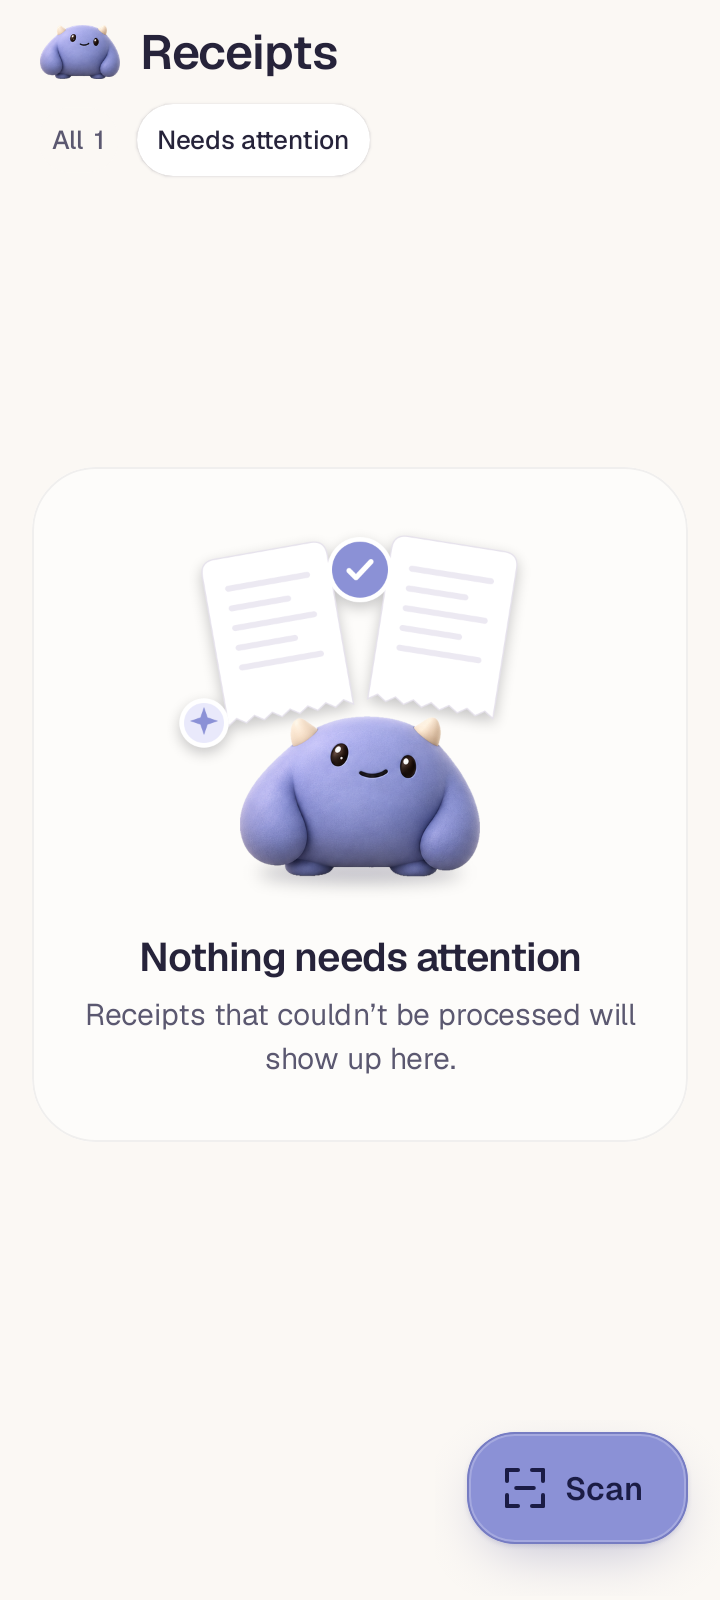
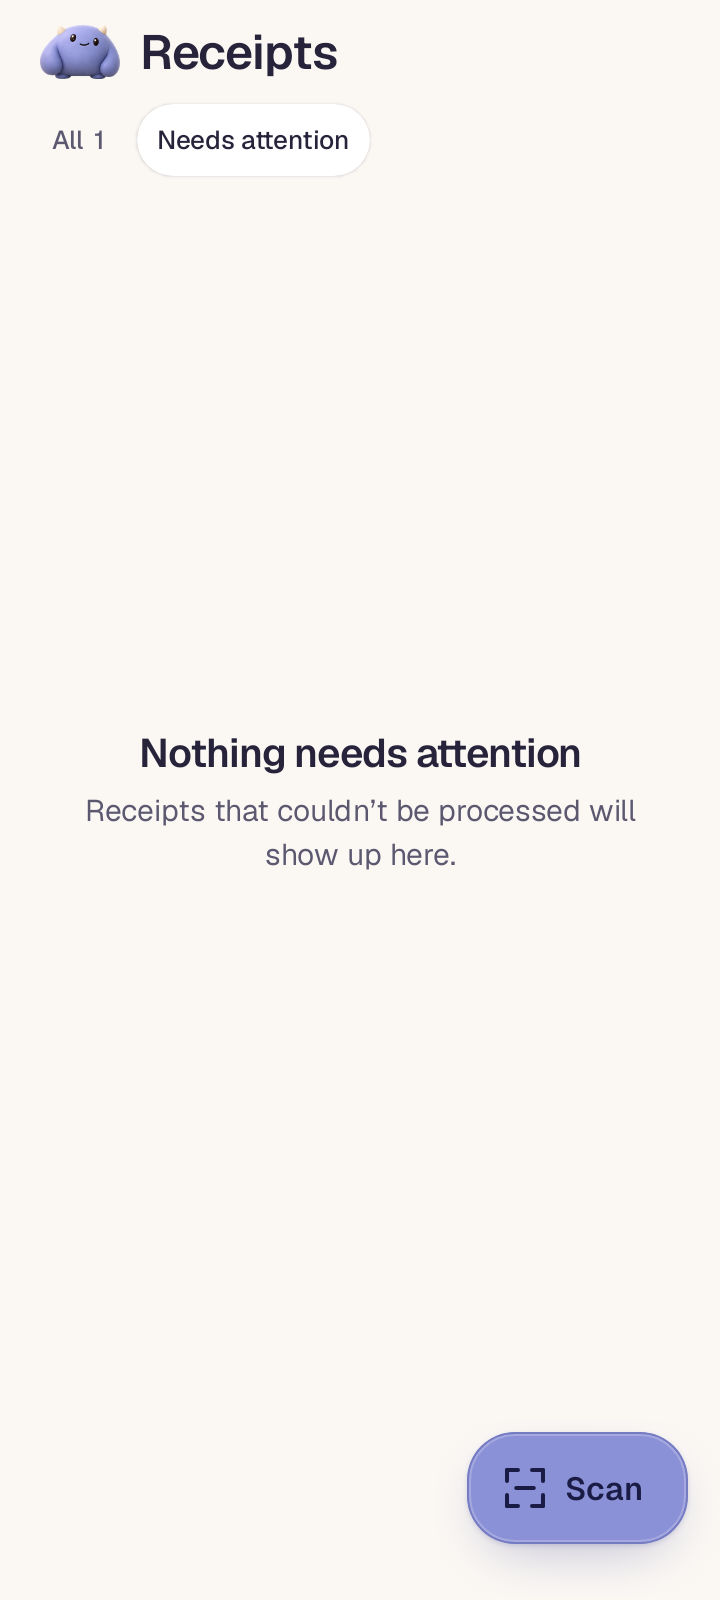
fix(goho-android): simplify status screens and limit Bram poses
- keep only no-receipts and neutral Bram artwork
- render status content directly on the screen background
- refresh design guidance and native status captures

Changed region(s): [[0.1222, 0.4375, 0.8861, 0.5625], [0.1222, 0.5938, 0.8861, 0.6875], [0.4583, 0.3125, 0.55, 0.4062]]

diff --git a/.agents/skills/goho-design/assets/compose/GohoComponents.kt b/.agents/skills/goho-design/assets/compose/GohoComponents.kt
@@ -1,6 +1,6 @@
 // Goho UI primitives. Reference implementation from the design handoff; not compiled
 // against the project, so fix any API drift for the project's Compose version.
-// Bram status cards, retry measurement, button treatment, and reduced-motion press match PR #101.
+// Bram status content follows the current screen specs; retry, buttons, and reduced-motion press retain PR #101 behavior.
 package com.goho.ui.components // TODO: match the app's package
 
 import androidx.compose.animation.core.Animatable
@@ -986,19 +986,19 @@ fun GohoDeleteError(modifier: Modifier = Modifier) {
 
 // ---------- Status content (empty and error states) ----------
 
-/** Current Bram status content. No receipts passes showCard = false.
+/** Current status content sits directly on the screen background. No receipts supplies Bram.
+ * Needs-attention and load-error states omit illustration; additional character poses are deferred.
  * For retry, pass announcePolitely = true and reserve both button labels.
  * ReceiptOverview owns the success crossfade and passes animateEntrance = false on the incoming status content.
  */
 @Composable
-fun GohoStatusCard(
-    illustration: androidx.compose.ui.graphics.painter.Painter,
+fun GohoStatusContent(
     title: String,
     text: String,
     modifier: Modifier = Modifier,
+    illustration: androidx.compose.ui.graphics.painter.Painter? = null,
     animateEntrance: Boolean = true,
     announcePolitely: Boolean = false,
-    showCard: Boolean = true,
     action: (@Composable () -> Unit)? = null,
 ) {
     val c = GohoTheme.colors
@@ -1016,14 +1016,6 @@ fun GohoStatusCard(
                 alpha = progress
                 translationY = GohoMotion.statusEnterTranslation.toPx() * (1f - progress)
             }
-            .then(
-                if (showCard) {
-                    Modifier
-                        .clip(GohoShapes.statusCard)
-                        .background(c.statusCard)
-                        .border(GohoSpacing.hairline, c.statusCardRing, GohoShapes.statusCard)
-                } else Modifier
-            )
             .semantics(mergeDescendants = true) {
                 if (announcePolitely) liveRegion = LiveRegionMode.Polite
             }
@@ -1037,18 +1029,20 @@ fun GohoStatusCard(
             ),
         horizontalAlignment = Alignment.CenterHorizontally,
     ) {
-        androidx.compose.foundation.Image(
-            illustration,
-            contentDescription = null,
-            contentScale = ContentScale.Fit,
-            modifier =
-                Modifier.widthIn(max = GohoSpacing.statusIllustrationWidth)
-                    .fillMaxWidth()
-                    .aspectRatio(
-                        GohoSpacing.statusIllustrationWidth / GohoSpacing.statusIllustrationHeight
-                    ),
-        )
-        Spacer(Modifier.height(GohoSpacing.statusTitleTop))
+        if (illustration != null) {
+            androidx.compose.foundation.Image(
+                illustration,
+                contentDescription = null,
+                contentScale = ContentScale.Fit,
+                modifier =
+                    Modifier.widthIn(max = GohoSpacing.statusIllustrationWidth)
+                        .fillMaxWidth()
+                        .aspectRatio(
+                            GohoSpacing.statusIllustrationWidth / GohoSpacing.statusIllustrationHeight
+                        ),
+            )
+            Spacer(Modifier.height(GohoSpacing.statusTitleTop))
+        }
         Text(
             title,
             style = GohoTheme.type.title.copy(fontSize = 20.sp, lineHeight = 26.sp, letterSpacing = (-0.02).em),

diff --git a/programs/goho-android/app/src/main/kotlin/com/adamaho/goho/ui/components/ReceiptStatusContent.kt b/programs/goho-android/app/src/main/kotlin/com/adamaho/goho/ui/components/ReceiptStatusContent.kt
@@ -4,14 +4,11 @@ import androidx.annotation.DrawableRes
 import androidx.compose.animation.core.Animatable
 import androidx.compose.animation.core.tween
 import androidx.compose.foundation.Image
-import androidx.compose.foundation.background
-import androidx.compose.foundation.border
 import androidx.compose.foundation.layout.*
 import androidx.compose.material3.Text
 import androidx.compose.runtime.*
 import androidx.compose.ui.Alignment
 import androidx.compose.ui.Modifier
-import androidx.compose.ui.draw.clip
 import androidx.compose.ui.graphics.graphicsLayer
 import androidx.compose.ui.layout.ContentScale
 import androidx.compose.ui.res.painterResource
@@ -20,14 +17,13 @@ import androidx.compose.ui.text.style.TextAlign
 import com.adamaho.goho.theme.*
 
 @Composable
-internal fun ReceiptStatusCard(
-    @DrawableRes illustration: Int,
+internal fun ReceiptStatusContent(
     title: String,
     description: String,
     modifier: Modifier = Modifier,
+    @DrawableRes illustration: Int? = null,
     animateEntrance: Boolean = true,
     announcePolitely: Boolean = false,
-    showCard: Boolean = true,
     action: (@Composable () -> Unit)? = null,
 ) {
     val c = GohoTheme.colors
@@ -45,13 +41,6 @@ internal fun ReceiptStatusCard(
                 alpha = progress
                 translationY = GohoMotion.statusEnterTranslation.toPx() * (1f - progress)
             }
-            .then(
-                if (showCard)
-                    Modifier.clip(GohoShapes.statusCard)
-                        .background(c.statusCard)
-                        .border(GohoSpacing.hairline, c.statusCardRing, GohoShapes.statusCard)
-                else Modifier
-            )
             .semantics(mergeDescendants = true) {
                 if (announcePolitely) liveRegion = LiveRegionMode.Polite
             }
@@ -65,18 +54,21 @@ internal fun ReceiptStatusCard(
             ),
         horizontalAlignment = Alignment.CenterHorizontally,
     ) {
-        Image(
-            painterResource(illustration),
-            contentDescription = null,
-            contentScale = ContentScale.Fit,
-            modifier =
-                Modifier.widthIn(max = GohoSpacing.statusIllustrationWidth)
-                    .fillMaxWidth()
-                    .aspectRatio(
-                        GohoSpacing.statusIllustrationWidth / GohoSpacing.statusIllustrationHeight
-                    ),
-        )
-        Spacer(Modifier.height(GohoSpacing.statusTitleTop))
+        if (illustration != null) {
+            Image(
+                painterResource(illustration),
+                contentDescription = null,
+                contentScale = ContentScale.Fit,
+                modifier =
+                    Modifier.widthIn(max = GohoSpacing.statusIllustrationWidth)
+                        .fillMaxWidth()
+                        .aspectRatio(
+                            GohoSpacing.statusIllustrationWidth /
+                                GohoSpacing.statusIllustrationHeight
+                        ),
+            )
+            Spacer(Modifier.height(GohoSpacing.statusTitleTop))
+        }
         Text(
             title,
             style = GohoTheme.type.statusTitle,

diff --git a/programs/goho-android/app/src/main/kotlin/com/adamaho/goho/ui/components/ReceiptsConnectionErrorState.kt b/programs/goho-android/app/src/main/kotlin/com/adamaho/goho/ui/components/ReceiptsConnectionErrorState.kt
@@ -4,7 +4,6 @@ import androidx.compose.runtime.Composable
 import androidx.compose.ui.Modifier
 import androidx.compose.ui.res.stringResource
 import com.adamaho.goho.R
-import com.adamaho.goho.theme.GohoTheme
 
 @Composable
 fun ReceiptsConnectionErrorState(
@@ -15,10 +14,7 @@ fun ReceiptsConnectionErrorState(
 ) {
     val retry = stringResource(R.string.receipts_retry)
     val retrying = stringResource(R.string.receipts_retrying)
-    ReceiptStatusCard(
-        illustration =
-            if (GohoTheme.colors.isDark) R.drawable.status_load_error_dark
-            else R.drawable.status_load_error,
+    ReceiptStatusContent(
         title = stringResource(R.string.receipts_load_failed),
         description = stringResource(R.string.receipts_load_failed_body),
         modifier = modifier,

diff --git a/programs/goho-android/app/src/main/kotlin/com/adamaho/goho/ui/components/NoNeedsAttentionState.kt b/programs/goho-android/app/src/main/kotlin/com/adamaho/goho/ui/components/NoNeedsAttentionState.kt
@@ -4,14 +4,10 @@ import androidx.compose.runtime.Composable
 import androidx.compose.ui.Modifier
 import androidx.compose.ui.res.stringResource
 import com.adamaho.goho.R
-import com.adamaho.goho.theme.GohoTheme
 
 @Composable
 fun NoNeedsAttentionState(modifier: Modifier = Modifier, animateEntrance: Boolean = true) {
-    ReceiptStatusCard(
-        illustration =
-            if (GohoTheme.colors.isDark) R.drawable.status_needs_attention_dark
-            else R.drawable.status_needs_attention,
+    ReceiptStatusContent(
         title = stringResource(R.string.receipts_attention_empty),
         description = stringResource(R.string.receipts_attention_empty_body),
         modifier = modifier,

diff --git a/programs/goho-android/app/src/main/kotlin/com/adamaho/goho/ui/components/NoReceiptsState.kt b/programs/goho-android/app/src/main/kotlin/com/adamaho/goho/ui/components/NoReceiptsState.kt
@@ -7,12 +7,11 @@ import com.adamaho.goho.R
 
 @Composable
 fun NoReceiptsState(modifier: Modifier = Modifier, animateEntrance: Boolean = true) {
-    ReceiptStatusCard(
+    ReceiptStatusContent(
         illustration = R.drawable.status_no_receipts,
         title = stringResource(R.string.receipts_empty_title),
         description = stringResource(R.string.receipts_empty_body),
         modifier = modifier,
         animateEntrance = animateEntrance,
-        showCard = false,
     )
 }

diff --git a/programs/goho-android/tools/bram-captures/harness/src/com/adamaho/goho/evidence/ReceiptEvidenceTest.kt b/programs/goho-android/tools/bram-captures/harness/src/com/adamaho/goho/evidence/ReceiptEvidenceTest.kt
@@ -102,7 +102,6 @@ class ReceiptEvidenceTest {
         capture("large-font-no-attention-scrolled")
     }
     private fun deleteLast(withSaved: Boolean, name: String) {
-        assumeTrue(output.name == "after")
         val failed = ReceiptUploadsList200ResponseDataInner(
             UUID.fromString("00000000-0000-4000-8000-000000000001"),
             "receipt.jpg", ReceiptUploadsList200ResponseDataInner.ContentType.imageSlashJpeg,

diff --git a/.agents/skills/goho-design/SKILL.md b/.agents/skills/goho-design/SKILL.md
@@ -13,7 +13,7 @@ Think "Family wallet's warmth and motion, Linear's calm surfaces", never "Materi
 
 ## Bram refinements
 
-Buttons use flat fills, darker edge rings, faint inner rings and soft wide shadows; see `references/tokens.md`. The list empty and error states use the supplied light/dark illustrations in `assets/illustrations/` and the specs in `references/screens.md` section 6. Render the current Bram artwork unchanged. The no-receipts state uses one transparent image of Bram cradling a blank receipt in both themes, with Bram and the copy directly on the screen background. Omit its card fill, border and rounded clipping while preserving the content spacing and placement. Other status illustrations retain their supplied decorative pastel accents. Interactive accents are lavender. The decorative 40dp Bram mark precedes the Receipts title with a 10dp gap, except in the load-error state. Buttons have 20dp corners, Scan 24dp, and the needs-attention and load-error status cards 32dp. Status entrance, retry, recovery, and large-text behavior are specified in `references/screens.md` section 6.
+Buttons use flat fills, darker edge rings, faint inner rings and soft wide shadows; see `references/tokens.md`. Current Bram artwork is limited to the no-receipts illustration and neutral stance/header mark in `assets/illustrations/`. Render the supplied artwork unchanged. All three list status states render directly on the screen background, without an enclosing card fill, border or rounded clipping. Preserve their content padding, spacing and placement. The no-receipts state uses one transparent image of Bram cradling a blank receipt in both themes. Needs-attention and load-error states contain text and their existing actions, without illustrations or reserved illustration space. Additional character poses and accessories are deferred to a later PR. Interactive accents are lavender. The decorative 40dp neutral Bram mark precedes the Receipts title with a 10dp gap, except in the load-error state. Buttons have 20dp corners and Scan 24dp. Status entrance, retry, recovery, and large-text behavior are specified in `references/screens.md` section 6.
 
 ## Geist typography
 
@@ -27,7 +27,7 @@ Bundle Geist Regular (400), Medium (500), and SemiBold (600). Do not use weight 
 4. **Missing amounts show "—", never $0.00.** Receipts that failed processing stay in the list, marked "Not processed", and are never hidden.
 5. **Processing is inline.** A new receipt appears at the top of the list immediately with a shimmering "Reading receipt…" pill. No blocking screens or hero scanner.
 6. **No ripples.** Press feedback is the Goho press: scale to 97%, move down 1dp, shadow drops, fill darkens, spring back on release. Use `indication = null` plus the press modifier. Never a sunken or inset-shadow pressed state.
-7. **Rounded, by role.** Thumbnail 8dp; primary and secondary buttons 20dp (not pills); cards and photo frame 20dp; FAB 24dp; status cards 32dp; pills, badges, filter and icon buttons fully round.
+7. **Rounded, by role.** Thumbnail 8dp; primary and secondary buttons 20dp (not pills); cards and photo frame 20dp; FAB 24dp; pills, badges, filter and icon buttons fully round.
 8. **No bottom navigation.** The list screen has a floating Scan button at the bottom right.
 9. **Light and dark, following the system.** Both palettes share token names (`GohoLightColors`, `GohoDarkColors`). Never branch on theme in screens; the only exceptions are baked into the components (card edges, top highlights). The photo frame and photo viewer are dark in both themes.
 
@@ -58,7 +58,7 @@ The current handoff keeps the same receipt photo, merchant, amount and date head
 2. Build the primitives in `references/components.md`. `assets/compose/GohoComponents.kt` is a reference implementation of them; it has not been compiled, so treat it as a strong starting point and fix any API drift against the project's Compose version.
 3. Build screens from `references/screens.md`, which has the layout top to bottom with measurements, copy, states and behavior.
 4. Compare against the mockups listed in `assets/mockups/README.md`. The written spec wins if they disagree.
-5. When an approved UI change alters the design, update the affected specs, Compose references, illustration assets, and current mockups together. Preserve supplied artwork; label older reference assets as historical rather than presenting them as current. Keep Bram references, concepts and prompts in `assets/illustrations/bram/`, approved artwork in `assets/illustrations/`, and current screen references in `assets/mockups/`. The Android capture tooling lives in `programs/goho-android/tools/bram-captures/` at the repository root; generated captures and reports belong in the ignored Android `build/` directory.
+5. When an approved UI change alters the design, update the affected specs, Compose references, illustration assets, and current mockups together. Preserve supplied artwork; label older reference assets as historical rather than presenting them as current. Keep the neutral Bram identity reference and no-receipts generation prompts in `assets/illustrations/bram/`, approved artwork in `assets/illustrations/`, and current screen references in `assets/mockups/`. Check in only Bram artwork used by the no-receipts state or neutral stance; defer other character states and concept sheets until their implementation. The Android capture tooling lives in `programs/goho-android/tools/bram-captures/` at the repository root; generated captures and reports belong in the ignored Android `build/` directory.
 6. Verify the requested behavior against the current Goho server and Android flow before implementing it. Mockups do not establish backend support.
 
 ## Approved receipt-list refinements

diff --git a/.agents/skills/goho-design/assets/mockups/README.md b/.agents/skills/goho-design/assets/mockups/README.md
@@ -1,18 +1,18 @@
 # Mockups
 
-## Current Bram status states (October 7, 2026 no-receipts illustration and layout refinement)
+## Current status states (October 7, 2026 Bram asset scope)
 
-These captures render the production ReceiptOverview and its components using Robolectric native Android graphics (API 35) and Roborazzi. They are app renders without system bars, not emulator screenshots or redrawn mock layouts. The no-receipts captures were rerun on October 7 with Bram cradling a blank receipt and the illustration and copy directly on the screen background; their capture tooling is in `programs/goho-android/tools/bram-captures/` at the repository root. All other captures retain the approved PR #101 source and artwork at `f202fc183a627d0025a8aecdbcba54cca5be4194`.
+These captures render the production ReceiptOverview and its components using Robolectric native Android graphics (API 35) and Roborazzi. They are app renders without system bars, not emulator screenshots or redrawn mock layouts. The current captures show Bram cradling a blank receipt directly on the no-receipts screen background, the neutral Bram header mark where applicable, and text-only needs-attention and load-error content directly on the screen background. None of the three status states has an enclosing card. Their capture tooling is in `programs/goho-android/tools/bram-captures/` at the repository root. Dedicated Bram artwork for other states is deferred to a later PR.
 
-- `empty-needs-attention.png` and `empty-needs-attention-light.png`: Nothing needs attention, with Bram, the selected filter, and Scan.
+- `empty-needs-attention.png` and `empty-needs-attention-light.png`: Nothing needs attention text directly on the screen background, neutral Bram header mark, selected filter, and Scan.
 - `empty-no-receipts.png` and `empty-no-receipts-light.png`: No receipts yet, with Bram and copy directly on the screen background, no surrounding card, and Scan in its footer; no filters.
-- `load-error.png` and `load-error-light.png`: Load error, title only in the header, retry action, no Scan.
+- `load-error.png` and `load-error-light.png`: Load-error text and retry action directly on the screen background, title only in the header, no Bram illustration or Scan.
 - `retry-running.png`, `retry-failed.png`, `retry-succeeded.png`: Disabled retry with stable bounds, failure in place, and the loaded list after success (light).
-- `deleted-last-failed-overall.png`: Needs attention stays selected with All 0 after deleting the last failed receipt (light).
+- `deleted-last-failed-overall.png`: Needs-attention text on the screen background and neutral Bram header; Needs attention stays selected with All 0 after deleting the last failed receipt (light).
 - `large-font-load-error-scrolled.png`, `large-font-no-attention-scrolled.png`, `large-font-no-receipts-scrolled.png`: 2× font, scrolled to expose the body/action; Scan has its own footer where present.
 - `small-360-no-receipts.png` and `tall-no-receipts.png`: Short and tall layout references.
 
-Standard captures are 360×800dp at 2× (720×1600px). Edge captures use 360×640dp or 412×960dp. Source filenames and SHA-256 values are recorded in `bram-captures.json`. Its top-level evidence commit and source directory apply unless a capture overrides them. The new no-receipts entries set `evidenceCommit` to null and link their current-change provenance directly. See the [original evidence and reproduction instructions](https://github.com/adamaho/goho/blob/c8f96f46a34118d3d45e44f3f7b2aa710afb86a8/.github/pr-assets/bram-status-states/README.md) for the rendering harness. The non-no-receipts captures are reused evidence. Run `programs/goho-android/tools/bram-captures/render.sh` from the repository root to reproduce the no-receipts images. Generated captures, semantics and JUnit results go to the ignored `programs/goho-android/build/bram-captures/` directory. This folder keeps only the approved screen references. Earlier before/after evidence is preserved in Git history at commit `69c44fb`.
+Standard captures are 360×800dp at 2× (720×1600px). Edge captures use 360×640dp or 412×960dp. Source filenames and SHA-256 values are recorded in `bram-captures.json`. The manifest identifies the current source and capture provenance. See the [original evidence and reproduction instructions](https://github.com/adamaho/goho/blob/c8f96f46a34118d3d45e44f3f7b2aa710afb86a8/.github/pr-assets/bram-status-states/README.md) for the rendering harness’s history. Run `programs/goho-android/tools/bram-captures/render.sh` from the repository root to reproduce the current status images. Generated captures, semantics and JUnit results go to the ignored `programs/goho-android/build/bram-captures/` directory. This folder keeps only the approved screen references. Earlier before/after evidence is preserved in Git history at commit `69c44fb`.
 
 ## Historical layout references (October 2 v2)
 

diff --git a/.agents/skills/goho-design/references/tokens.md b/.agents/skills/goho-design/references/tokens.md
@@ -27,7 +27,7 @@ Goho follows the system light/dark setting. Both palettes use the same token nam
 | `accentPressed`                              | `#959AE3`             | `#7D83CB`                | Scan and primary button fill while pressed                 |
 | `onAccent`                                   | `#17183D`             | `#1B1C45`                | Label and icon on Scan and primary buttons                 |
 | `buttonSecondary` / `buttonSecondaryPressed` | `#2B2A38` / `#252432` | `#FFFFFF` / `#F7F4F9`    | Secondary button fill                                      |
-| `statusCard` / `statusCardRing`              | white 2.5% / white 7% | white 60% / `#26233A` 6% | StatusCard fill and 1dp ring                               |
+| `statusCard` / `statusCardRing`              | white 2.5% / white 7% | white 60% / `#26233A` 6% | Legacy status-card fill and ring; unused by current states |
 | `accentContainer` / `onAccentContainer`      | `#2A2C50` / `#B7BBF6` | `#E9E9FB` / `#444AA0`    | "Reading receipt…" pill                                    |
 | `accentShimmer`                              | `#E4E5FD`             | `#9CA1E6`                | Shimmer highlight on "Reading receipt…"                    |
 | `attention` / `attentionContainer`           | `#ED9658` / `#3F2717` | `#A34D16` / `#FFEADC`    | "Not processed" pill, attention count badge                |
@@ -84,7 +84,7 @@ Currency codes follow the symbol and amount, baseline aligned in `textTertiary`:
 | `card`       | 20     | Grouped list cards, detail card, photo frame                   |
 | `fab`        | 24     | Scan button                                                    |
 | `pill`       | 50%    | Status pills, count badge, filter segments, round icon buttons |
-| `statusCard` | 32     | Empty and error cards                                          |
+| `statusCard` | 32     | Legacy status-card shape; unused by current states             |
 | `sheet`      | 28     | Floating bottom sheet (all four corners)                       |
 
 Plain `RoundedCornerShape` is fine. If the project already has a smooth-corner (squircle) shape, prefer it for `card`, `fab` and `button`.
@@ -121,10 +121,12 @@ Pressed: the fill steps to its pressed color, the wide shadow drops away (keep t
 | Element                 | Dark                                           | Light                                    |
 | ----------------------- | ---------------------------------------------- | ---------------------------------------- |
 | Cards                   | No shadow, 1dp top highlight white 3%          | 1dp ring `#26233A` 5% + soft shadow      |
-| StatusCard              | 1dp ring white 7% on white 2.5%                | 1dp ring `#26233A` 6% on white 60%       |
+| Legacy status card      | 1dp ring white 7% on white 2.5%                | 1dp ring `#26233A` 6% on white 60%       |
 | Selected filter segment | 1dp black shadow, white 6% top highlight       | 1dp shadow `#26233A`                     |
 | Round icon button       | No shadow; `surfaceMutedPressed` when pressed  | Same                                     |
 | Bottom sheet            | White 5% ring and highlight; soft black shadow | `#26233A` 4% ring; soft `#26233A` shadow |
+
+The `statusCard` color and shape tokens and legacy elevation treatment are retained for reference only. Current no-receipts, needs-attention and load-error content renders directly on the screen background without a card surface, ring or rounded clipping. Existing status padding tokens still define their shared content spacing.
 
 ## Motion
 
@@ -133,7 +135,7 @@ Pressed: the fill steps to its pressed color, the wide shadow drops away (keep t
 - **Processing shimmer:** a highlight sweeps across the "Reading receipt…" text and the amount skeleton every 1.8s, linear, infinite. Shimmer colors: text `onAccentContainer` → `accentShimmer` → `onAccentContainer`; skeleton `skeletonBase` → `skeletonShimmer` → `skeletonBase`.
 - **Row → detail (nice to have):** shared-element transition from the row thumbnail to the detail photo frame.
 - **Status entrance:** 200ms fade and 6dp upward settle, once on appearance.
-- **Retry recovery:** 200ms crossfade of the error screen into the loaded state. Suppress the incoming card entrance so recovery animates only once.
+- **Retry recovery:** 200ms crossfade of the error screen into the loaded state. Suppress the incoming status-content entrance so recovery animates only once.
 - **Reduced motion:** when the animator duration scale is 0, shimmer is static and entrance, recovery, and press transformations are disabled.
 
 ## Receipt header and timestamps

diff --git a/programs/goho-android/tools/bram-captures/README.md b/programs/goho-android/tools/bram-captures/README.md
@@ -10,10 +10,17 @@ programs/goho-android/tools/bram-captures/render.sh
 
 Configure JDK 17 through `JAVA_HOME` or `PATH`, and the Android SDK through `ANDROID_HOME`, `ANDROID_SDK_ROOT`, or the Android project's `local.properties`. The script preserves these settings. Gradle needs access to its user cache and network access when dependencies are missing. Run Gradle serially.
 
-Outputs default to the ignored `programs/goho-android/build/bram-captures/` directory: six PNG screenshots, six semantics dumps, and `test-results.xml`. An optional first argument selects another output directory, relative to the caller's working directory or absolute. The capture invocation always reruns its filtered tests. Treat these as generated build artifacts; keep only approved screen mockups in the design skill.
+Outputs default to the ignored `programs/goho-android/build/bram-captures/` directory: 18 PNG screenshots, 18 semantics dumps, and `test-results.xml`. An optional first argument selects another output directory, relative to the caller's working directory or absolute. The capture invocation always reruns its filtered tests. Treat these as generated build artifacts; keep only approved screen mockups in the design skill.
 
-The five test filters are `ReceiptEvidenceTest.noReceiptsLight`, `noReceiptsDark`, `smallEmpty`, `tallEmpty`, and `largeTextEmpty`. They cover light and dark at 360×800dp, short at 360×640dp, tall at 412×960dp, and 2× font at 360×640dp. Captures use 2× density. The large-text check captures both initial and scrolled states and asserts that Scan stays visible and body copy is reachable by scrolling.
+Thirteen existing test filters cover the implemented screens and transitions:
+
+- No receipts: `noReceiptsLight`, `noReceiptsDark`, `smallEmpty`, `tallEmpty`, and `largeTextEmpty`.
+- Nothing needs attention: `noAttentionLight`, `noAttentionDark`, and `largeTextAttention`.
+- Load error: `loadErrorLight`, `loadErrorDark`, and `largeTextError`.
+- Retry and deletion: `retryFailureAndSuccess` and `deleteLastFailedOverall`.
+
+Only the no-receipts state uses special Bram artwork. All three states sit directly on the screen background. Attention and load-error messages use text and their existing actions. The captures cover light and dark at 360×800dp, short at 360×640dp, tall at 412×960dp, and 2× font at 360×640dp, all at 2× density. Large-text checks capture initial and scrolled states and assert that their relevant copy or actions are reachable. The retry check verifies loading, failure, and recovery without shifting the error title; the deletion check verifies that deleting the last failed receipt preserves the selected Needs attention tab and visible Scan action. Fifteen selected screenshots are the approved mockups; the three additional initial large-text screenshots remain generated output.
 
 Artwork references and generation prompts live under [the design skill's Bram sources](../../../../.agents/skills/goho-design/assets/illustrations/bram/). The approved PNG master is [status-no-receipts.png](../../../../.agents/skills/goho-design/assets/illustrations/status-no-receipts.png). Approved screen references live in [its mockups directory](../../../../.agents/skills/goho-design/assets/mockups/). Generated capture history remains available in Git: commit `4a866b9` contains the original-artwork baseline and the card-backed receipt artwork, and `69c44fb` contains the cardless state, under the former `art/bram/no-receipts-review/` path.
 
-The Kotlin harness was recovered from commit `c8f96f46a34118d3d45e44f3f7b2aa710afb86a8` and remains unchanged. [Harness provenance](harness-provenance.json) records the original/current hashes and Gradle portability changes. Dependencies and test sources are added only for this invocation through `harness/init.gradle`; production Gradle files and app tests are unchanged. Filters restrict this command to the five no-receipts checks despite other historical cases in the recovered harness.
+The Kotlin harness was recovered from commit `c8f96f46a34118d3d45e44f3f7b2aa710afb86a8`. Its only source change removes the obsolete `output.name == "after"` phase guard from the existing deletion helper so it runs in the current output directory. [Harness provenance](harness-provenance.json) records original/current hashes, that change, and Gradle portability changes. Dependencies and test sources are added only for this invocation through `harness/init.gradle`; production Gradle files and app tests are unchanged. Filters run the 13 checks listed above.

diff --git a/.agents/skills/goho-design/references/screens.md b/.agents/skills/goho-design/references/screens.md
@@ -147,19 +147,19 @@ One GohoSheet, opened from the details screen's overflow button, by pressing and
 
 ## 6. Empty and error states
 
-Mockups: `empty-needs-attention*.png`, `empty-no-receipts*.png`, `load-error*.png` (dark and `-light`). All three use the shared status content layout (components.md). Needs attention and load error retain the StatusCard surface; no receipts renders directly on the screen background. Render the current lavender Bram PNGs unchanged; the no-receipts state shares one transparent asset across both themes, while the other states retain light/dark variants. Older SVG illustrations are historical.
+Mockups: `empty-needs-attention*.png`, `empty-no-receipts*.png`, `load-error*.png` (dark and `-light`). All three use the shared status content layout (components.md), directly on the screen background without an enclosing card fill, border or rounded clipping. Needs attention and load error show text and their existing actions; omit illustrations and reserved illustration space. No receipts shares one transparent Bram asset across both themes. Render it and the neutral Bram header mark unchanged. Dedicated character artwork for other states is deferred to a later PR. Older SVG illustrations are historical.
 
 **Layout and transitions**
 
 - Center the status content in the available content area below the fixed header and above a separate Scan footer when present, respecting system insets. Give the scrollable content 16dp horizontal and vertical padding. On short screens or with larger text, allow the whole status content to scroll rather than clipping copy or overlapping Scan.
 - Animate newly shown status content once: 200ms fade and 6dp upward settle. No looping or bouncing mascot animation.
-- During retry, keep the error header and card mounted. Reserve button space for both labels at the current font scale; show disabled “Trying again…” without changing bounds. Failure restores “Try again” in place. Success crossfades the outgoing error screen to the loaded state in 200ms, with no second status entrance and no outgoing accessibility actions.
+- During retry, keep the error header and status content mounted. Reserve button space for both labels at the current font scale; show disabled “Trying again…” without changing bounds. Failure restores “Try again” in place. Success crossfades the outgoing error screen to the loaded state in 200ms, with no second status entrance and no outgoing accessibility actions.
 - With Remove animations enabled, entrance, recovery, and press are static. Keep existing copy unchanged.
 
 **Needs attention, nothing in it**
 
 - Header includes Bram and filters ("Needs attention" selected, no badge). Preserve both filters after deleting the last failed receipt, even when the overall count is zero. The Scan button stays.
-- StatusCard centered vertically in the space between the filter and the Scan button. Illustration `status-needs-attention`: Bram beneath two receipts, a lavender check badge, and a sparkle chip (“all sorted”).
+- Text-only status content centered vertically between the filter and the Scan button, directly on the screen background. Omit the illustration and the gap that would precede the title.
 - Title "Nothing needs attention"; text "Receipts that couldn’t be processed will show up here." No button.
 
 **No receipts yet** (the account has no receipts at all)
@@ -171,6 +171,6 @@ Mockups: `empty-needs-attention*.png`, `empty-no-receipts*.png`, `load-error*.pn
 **Couldn’t load receipts** (the list request failed)
 
 - Header shows only the “Receipts” title. No Bram header mark, filter, or Scan button.
-- StatusCard centered in the available area below the header. Illustration `status-load-error`: Bram beneath a cloud and a peach wifi-off chip (“couldn’t reach the server”).
+- Text and retry action centered in the available area below the header, directly on the screen background. Omit the illustration and the gap that would precede the title.
 - Title "Couldn’t load receipts"; text "Check your connection and try again."; full-width GohoPrimaryButton "Try again" 22dp below the text. While retrying, the button shows "Trying again…" and is disabled.
-- Announce the card as a polite live region when it appears.
+- Announce the status content as a polite live region when it appears.

diff --git a/.agents/skills/goho-design/assets/illustrations/README.md b/.agents/skills/goho-design/assets/illustrations/README.md
@@ -1,14 +1,12 @@
 # Bram illustrations
 
-Current no-receipts artwork was refined on October 7, 2026 using the Bram receipt concept sheet and checked in native Compose renders. The other artwork remains from PR #101, approved on device October 5. These PNGs are byte-for-byte copies of the Android drawable assets; keep both copies synchronized when artwork changes.
+Current Bram assets are limited to the no-receipts empty state and the neutral stance/header mark. The no-receipts artwork was refined on October 7, 2026 and checked in native Compose renders. The neutral header mark retains the approved PR #101 artwork. These PNGs are byte-for-byte copies of the Android drawable assets; keep both copies synchronized when artwork changes.
 
-- `bram-mark.png`: decorative header mark, displayed at 40×40dp in both themes. Omit it on the load-error screen.
-- `status-needs-attention(-dark).png`: Bram under two receipts with a lavender check badge and sparkle.
+- `bram-mark.png`: neutral Bram stance used as a decorative header mark, displayed at 40×40dp in both themes. Omit it on the load-error screen.
 - `status-no-receipts.png`: Bram gently cradling a small blank cream receipt. The same transparent asset is used in light and dark mode, directly on the screen background alongside the empty-state copy, without a surrounding card. No separate plus badge or typing indicator.
-- `status-load-error(-dark).png`: Bram under a cloud and peach wifi-off chip.
 
-The no-receipts PNG is 1350×1165 RGBA; the other status PNGs remain 660×570 RGBA. Render unchanged with ContentScale.Fit in the same 220×190dp slot that can shrink proportionally on narrow screens. Select a `-dark` variant inside the component only for states that have one. Artwork is decorative; text supplies the accessible meaning. Android names use underscores instead of hyphens.
+The no-receipts PNG is 1350×1165 RGBA. Render unchanged with ContentScale.Fit in the same 220×190dp slot that can shrink proportionally on narrow screens. Artwork is decorative; text supplies the accessible meaning. Android names use underscores instead of hyphens. Needs-attention and load-error states use text and their existing actions directly on the screen background, without cards or illustrations; additional character states and concept sheets are deferred to a later PR.
 
 The SVGs in `legacy/` are the October 2 paper-and-pastel illustrations. They are retained for provenance, not as editable sources for the Bram PNGs. Do not re-export them over the current artwork. No editable Bram source is included in this PR.
 
-Bram identity references, concepts and generation prompts live in [bram/](bram/README.md). `status-no-receipts.png` is the approved master; the Android drawable is its production copy. Current screen captures live in [mockups/](../mockups/README.md). Android capture tooling lives in `programs/goho-android/tools/bram-captures/` at the repository root and writes generated evidence to the ignored Android `build/` directory. Earlier resources and review evidence remain in Git history at commit `69c44fb`. No-receipts artwork was created with built-in imagegen; it is a raster source, not an editable 3D rig.
+The neutral Bram identity reference and no-receipts generation prompts live in [bram/](bram/README.md). `status-no-receipts.png` is the approved master; the Android drawable is its production copy. Current screen captures live in [mockups/](../mockups/README.md). Android capture tooling lives in `programs/goho-android/tools/bram-captures/` at the repository root and writes generated evidence to the ignored Android `build/` directory. Earlier resources and review evidence remain in Git history at commit `69c44fb`. No-receipts artwork was created with built-in imagegen; it is a raster source, not an editable 3D rig.
